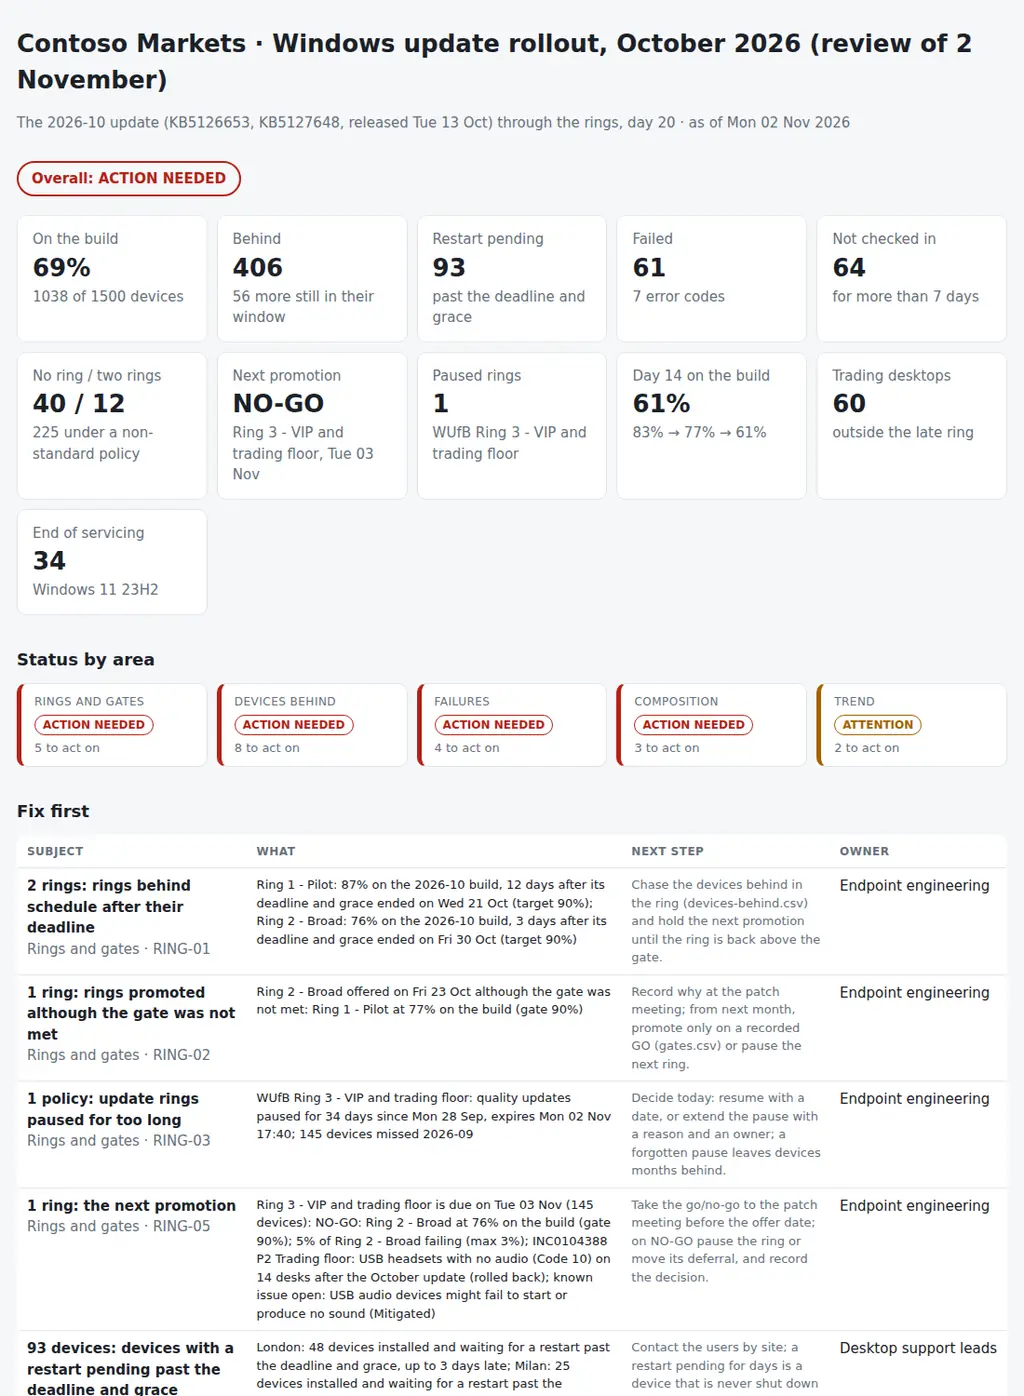
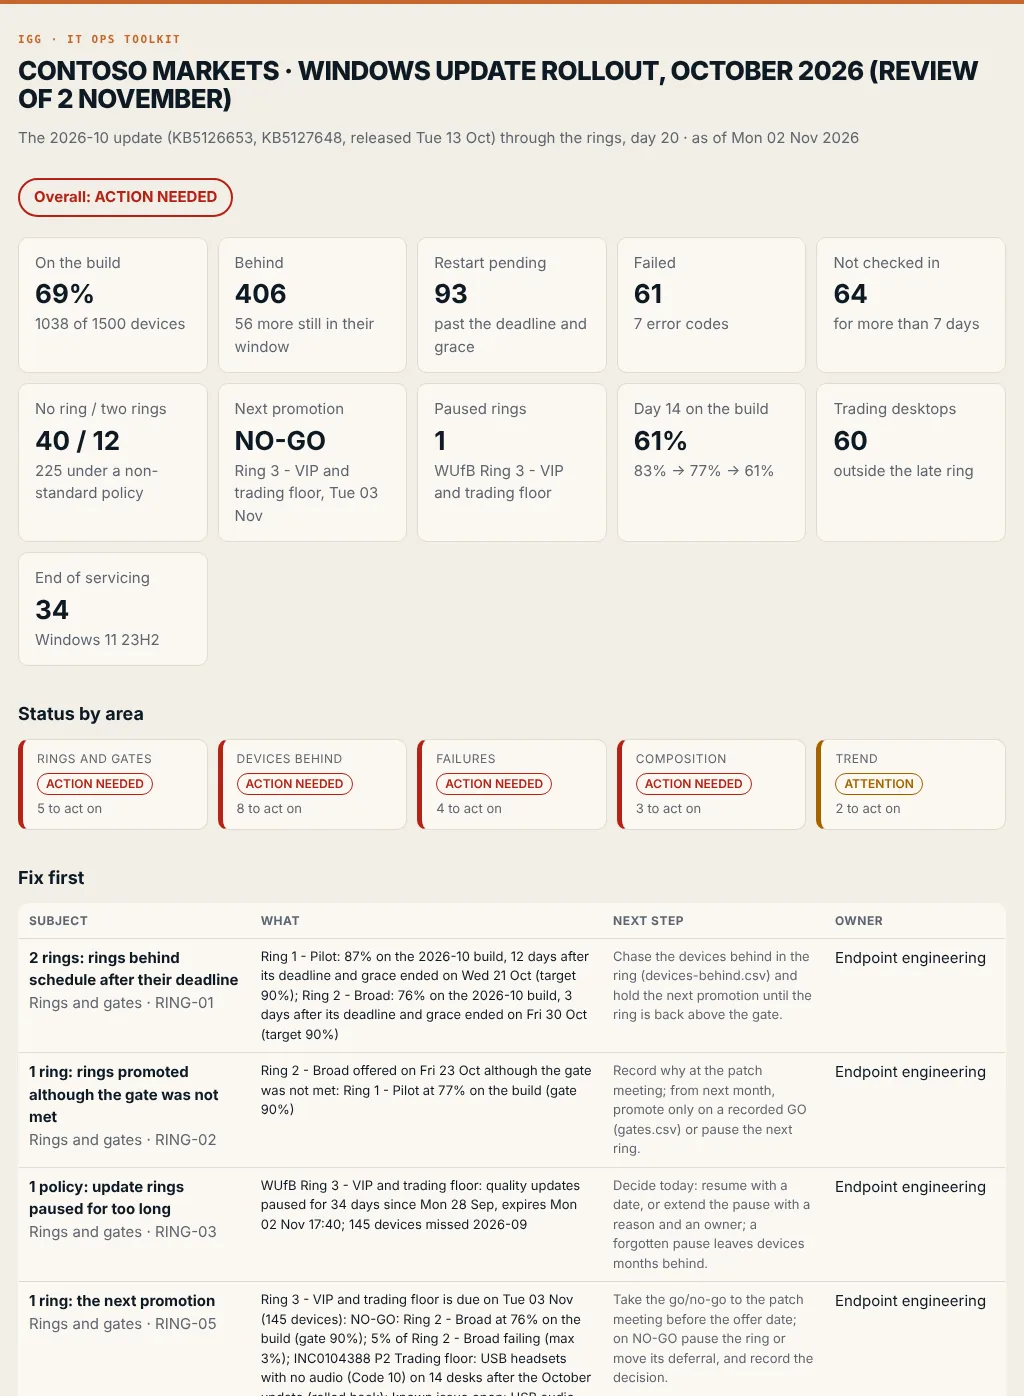
Report: IGG colours (paper, ink and the orange accent) and a new screenshot

diff --git a/ringtrack/report.py b/ringtrack/report.py
@@ -315,9 +315,9 @@ def pack_md(d: Data, rv: dict, findings: list[Finding], title: str) -> str:
 # ---------------------------------------------------------------- html
 
 CSS = """
-:root{--bg:#f6f7f8;--card:#fff;--ink:#1b2128;--muted:#66717c;--line:#e2e5e9;--ok:#1e7a4c;--warn:#a46200;--bad:#b42318;--info:#0b6bcb;--bar:#3d6fb4;--frz:#eef1f6;--dl:#cfe0f5;--gr:#f6e3c2}
-@media (prefers-color-scheme:dark){:root{--bg:#13171b;--card:#1b2127;--ink:#e7eaee;--muted:#9aa5b0;--line:#2b333b;--ok:#4cc38a;--warn:#f0a83a;--bad:#f2685c;--info:#5aa9f0;--bar:#6c9be0;--frz:#232b35;--dl:#24405f;--gr:#5a4423}}
-*{box-sizing:border-box}body{margin:0;background:var(--bg);color:var(--ink);font:15px/1.5 system-ui,-apple-system,Segoe UI,sans-serif}
+:root{--bg:#f2eee6;--card:#fbf8f3;--ink:#0e1a24;--muted:#5d6670;--line:#e2dccf;--ok:#1e7a4c;--warn:#a46200;--bad:#b42318;--info:#1f5f8b;--bar:#3d6fb4;--frz:#eef1f6;--dl:#cfe0f5;--gr:#f6e3c2}
+@media (prefers-color-scheme:dark){:root{--bg:#0e1a24;--card:#142331;--ink:#f2eee6;--muted:#a9b3bb;--line:#24364a;--ok:#4cc38a;--warn:#f0a83a;--bad:#f2685c;--info:#5aa9f0;--bar:#6c9be0;--frz:#232b35;--dl:#24405f;--gr:#5a4423}}
+*{box-sizing:border-box}body{border-top:4px solid #c4672b}h1{font-weight:800;letter-spacing:-.025em;text-transform:uppercase;line-height:1.05}h1::before{content:"IGG · IT Ops toolkit";display:block;font:600 11px/1.4 ui-monospace,SFMono-Regular,Menlo,monospace;letter-spacing:.14em;text-transform:uppercase;color:#c4672b;margin-bottom:10px}body{margin:0;background:var(--bg);color:var(--ink);font:15px/1.5 system-ui,-apple-system,Segoe UI,sans-serif}
 main{max-width:1100px;margin:0 auto;padding:28px 18px 60px}h1{font-size:26px;margin:0 0 4px}h2{font-size:18px;margin:34px 0 12px}
 .muted{color:var(--muted)}.tiles{display:grid;grid-template-columns:repeat(auto-fit,minmax(170px,1fr));gap:10px;margin-top:20px}
 .tile{background:var(--card);border:1px solid var(--line);border-radius:10px;padding:14px 16px}.tile b{display:block;font-size:26px}
